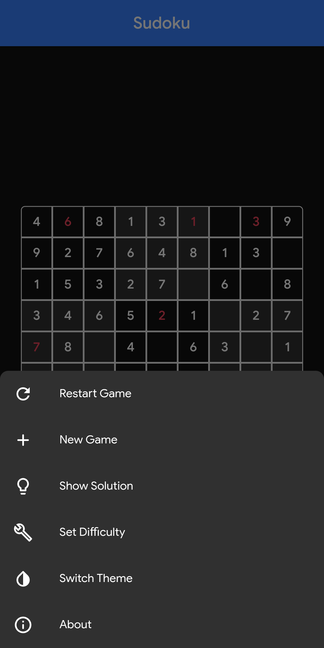
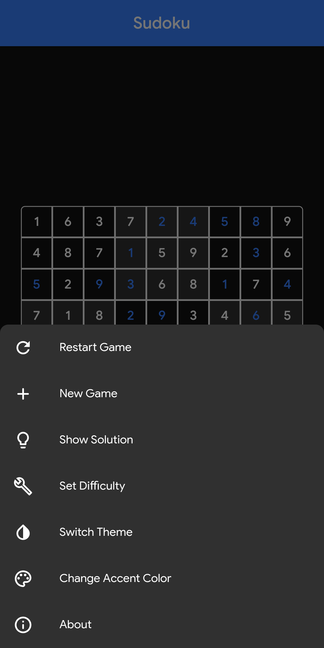
Release Version 2.4.0 Updated Documentation for 2.4.0

diff --git a/sudoku/lib/main.dart b/sudoku/lib/main.dart
@@ -19,7 +19,7 @@ void main() {
 }
 
 class MyApp extends StatelessWidget {
-  static final String versionNumber = '2.2.0';
+  static final String versionNumber = '2.4.0';
 
   @override
   Widget build(BuildContext context) {

diff --git a/README.md b/README.md
@@ -6,7 +6,9 @@
 
 ## [Downloads](https://github.com/VarunS2002/Flutter-Sudoku/releases)
 
-> [![APK: v2.2.0](https://img.shields.io/badge/APK-v2.2.0-brightgreen)](https://github.com/VarunS2002/Flutter-Sudoku/releases/download/2.2.0/Sudoku_2.2.0.apk)
+> [![APK: v2.4.0](https://img.shields.io/badge/APK-v2.4.0-brightgreen)](https://github.com/VarunS2002/Flutter-Sudoku/releases/download/2.4.0/Sudoku_2.4.0.apk)
+[![EXE: v2.4.0](https://img.shields.io/badge/EXE-v2.4.0-brightgreen)](https://github.com/VarunS2002/Flutter-Sudoku/releases/download/2.4.0/Sudoku_2.4.0.exe)
+[![Web: v2.4.0](https://img.shields.io/badge/Web-v2.4.0-brightgreen)](https://sudoku-vs2002.web.app/)
 [![License: GPL v3](https://img.shields.io/badge/License-GPLv3-blue.svg)](https://www.gnu.org/licenses/gpl-3.0)
 
 This is a fully fledged Sudoku game written in Dart using Flutter.
@@ -124,13 +126,13 @@ It can be exported to Android, iOS, Fuchsia, Windows, Linux, MacOS, PWA or a Web
 
 ## Features:
 
-- Uses a combination of a Sudoku generation and solving algorithm to create a unique game
-
 - Generates a New Game when you start the app
 
 - Clicking a box displays a dialog with buttons 1-9 to input in the box
 
 - Clickable buttons will initially have no number and will turn red after the first click
+
+- Long pressing a button will erase your input
 
 - After completely solving the grid, if the solution is correct it will alert you that you successfully solved the
   Sudoku
@@ -152,25 +154,31 @@ It can be exported to Android, iOS, Fuchsia, Windows, Linux, MacOS, PWA or a Web
 
 - Dark and Light theme
 
+- Various Accent Colors to choose from
+
 - Material Design
 
 ## Note:
 
-- [flutter_animated_dialog](https://pub.dev/packages/flutter_animated_dialog) is used for animated alert dialogs
+- Dependencies:
+    - [sudoku_solver_generator](https://pub.dev/packages/sudoku_solver_generator) is used for the Sudoku logic
 
-- [shared_preferences](https://pub.dev/packages/shared_preferences) is used for saving preferences locally
+    - [flutter_animated_dialog](https://pub.dev/packages/flutter_animated_dialog) is used for animated alert dialogs
 
-- [splashscreen](https://pub.dev/packages/splashscreen) is used for the splashscreen
+    - [shared_preferences](https://pub.dev/packages/shared_preferences) is used for saving preferences locally
 
-- [url_launcher](https://pub.dev/packages/url_launcher) is used for hyperlinks
+    - [splashscreen](https://pub.dev/packages/splashscreen) is used for the splashscreen
 
-- Referred Algorithms:
+    - [flutter_native_splash](https://pub.dev/packages/flutter_native_splash) is used for generating the native
+      splashscreen files
 
-    - [Sudoku Generation Algorithm](https://www.geeksforgeeks.org/program-sudoku-generator/) in Java
+    - [url_launcher](https://pub.dev/packages/url_launcher) is used for opening hyperlinks
 
-    - [Sudoku Generation and Solving Algorithm](https://www.101computing.net/sudoku-generator-algorithm/) in Python
+    - [bitsdojo_window](https://pub.dev/packages/bitsdojo_window) is used for title bar improvements on desktop
 
-- Untested on iOS, MacOS, Linux and Fuchsia. Additional chnages might be required to work correctly
+- [NSIS](https://nsis.sourceforge.io/) is used for building the Windows installer
+
+- Untested on iOS, MacOS, Linux and Fuchsia. Additional changes might be required to work correctly
 
 - If you face any issue or have suggestions then feel free to open an issue on GitHub
 
@@ -194,8 +202,14 @@ It can be exported to Android, iOS, Fuchsia, Windows, Linux, MacOS, PWA or a Web
 - Game Over Alert Box:<br><br>
 
   ![Result](https://i.imgur.com/tun5TaS.png)
+  <br><br>
 
 - Options:<br><br>
 
-  ![Options](https://i.imgur.com/B1J4c4G.png)
+  ![Options](https://i.imgur.com/MA0E2Ey.png)
+  <br><br>
+
+- Windows with Violet Accent Color:<br><br>
+
+  ![Windows_Violet](https://i.imgur.com/nxIZDSV.png)
   <br><br>
